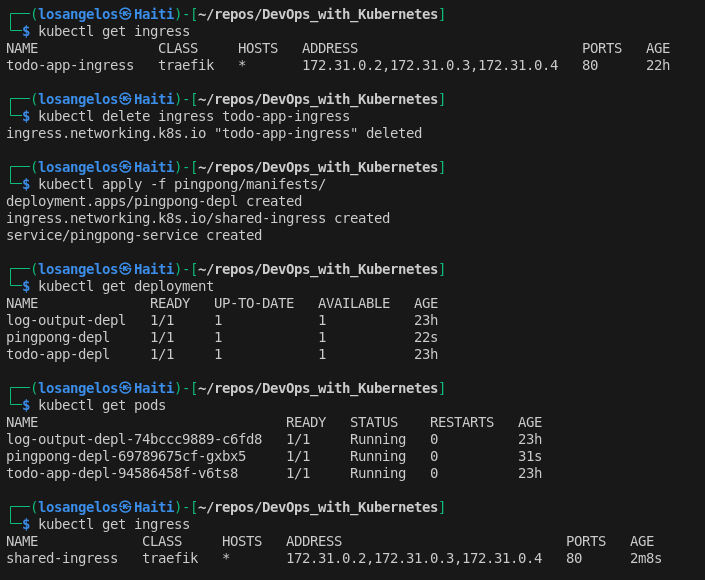
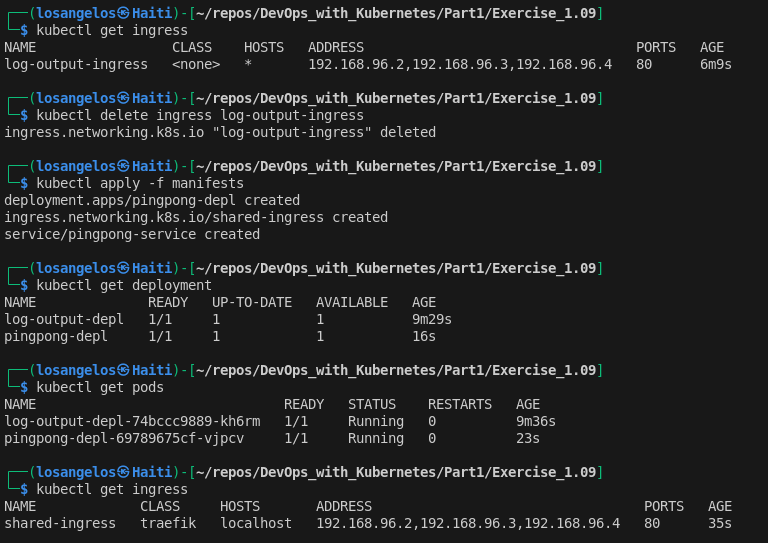
Switch to correct root app for Exercise 1.09

Changed region(s): [[0.0, 0.0, 0.9674, 0.825], [0.0, 0.8545, 0.8113, 0.9724], [0.4057, 0.9134, 0.9674, 0.9724]]

diff --git a/Part1/Exercise_1.09/README.md b/Part1/Exercise_1.09/README.md
@@ -76,16 +76,16 @@
             pathType: Prefix
             backend:
             service:
-                name: todo-app-service
+                name: log-output-service
                 port:
-                number: 3012
+                number: 3011
 
 
 ### Commands
 
 - This exercise used the same cluster that was created for [exercise 1.07](https://raw.githubusercontent.com/VikSil/DevOps_with_Kubernetes/refs/heads/trunk/Part1/Exercise_1.07/Exercise_1.07_commands.png). Loadbalancer HTTP port `80` is exposed to outside requests on `localhost:3011`.
 
-- Ingress for `todo-app` was removed to prevent a clash.
+- Ingress for `log-output` service was removed to prevent a clash.
 
 ![Commands for Exercise 1.09](https://raw.githubusercontent.com/VikSil/DevOps_with_Kubernetes/refs/heads/trunk/Part1/Exercise_1.09/Exercise_1.09_commands.png)
 
@@ -93,7 +93,7 @@
 
 ### GET Request to root
 
-![GET Request to root](https://raw.githubusercontent.com/VikSil/DevOps_with_Kubernetes/refs/heads/trunk/Part1/Exercise_1.09/Exercise_1.09_todo_app.png)
+![GET Request to root](https://raw.githubusercontent.com/VikSil/DevOps_with_Kubernetes/refs/heads/trunk/Part1/Exercise_1.09/Exercise_1.09_log_output_app.png)
 
 
 ### GET Request to /pingpong
